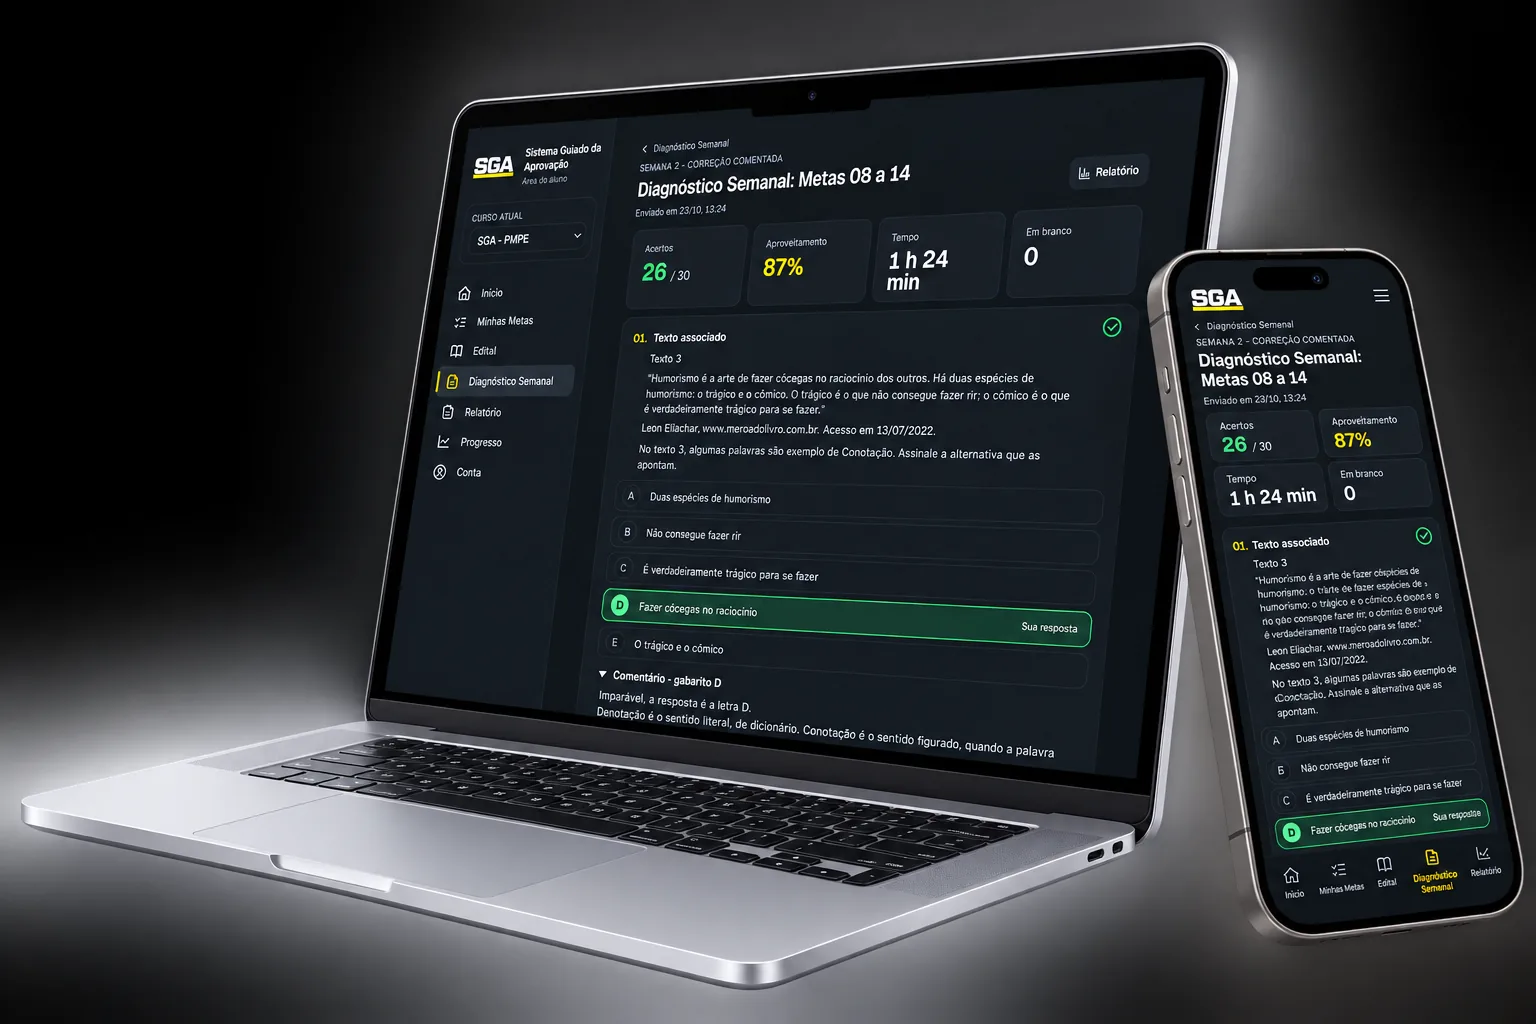
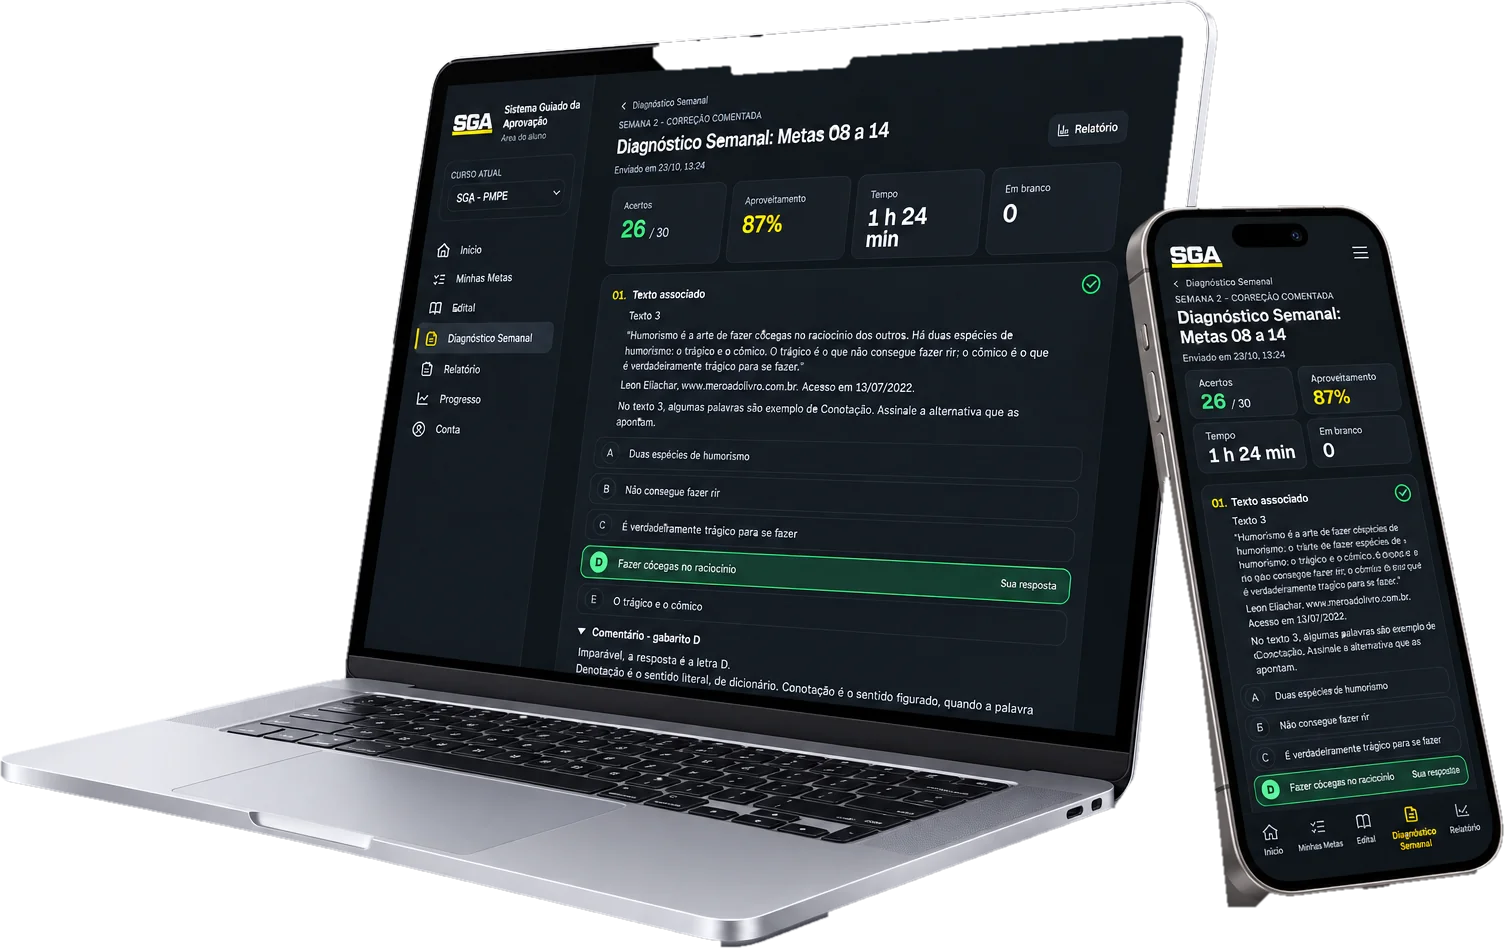
fix: mockup da introdução sem fundo e sem brilho
Claude-Session: https://claude.ai/code/session_01PrL2oFzyxZCCo67jh6zQXk

diff --git a/components/student/first-access-form.module.css b/components/student/first-access-form.module.css
@@ -432,10 +432,7 @@
 }
 /* Introdução do primeiro acesso (apresentação do SGA). */
 .mockup {
-  margin: 4px -36px 28px;
-  background: radial-gradient(ellipse at 50% 40%, rgba(255, 226, 2, 0.08), transparent 60%), #0e0f11;
-  border-top: 1px solid #2b2e33;
-  border-bottom: 1px solid #2b2e33;
+  margin: 8px 0 28px;
 }
 .mockup img {
   display: block;
@@ -519,10 +516,6 @@
   line-height: 1.5;
 }
 @media (max-width: 540px) {
-  .mockup {
-    margin-left: -22px;
-    margin-right: -22px;
-  }
   .timeline,
   .highlights {
     grid-template-columns: 1fr;

diff --git a/components/student/first-access-form.tsx b/components/student/first-access-form.tsx
@@ -219,8 +219,8 @@ export function FirstAccessForm({
                 <Image
                   src="/apresentacao/sga-mockup.webp"
                   alt="A área do aluno do SGA no computador e no celular, com a correção comentada do Diagnóstico Semanal"
-                  width={1536}
-                  height={1024}
+                  width={1504}
+                  height={948}
                   sizes="(max-width: 760px) 100vw, 628px"
                   priority
                 />
